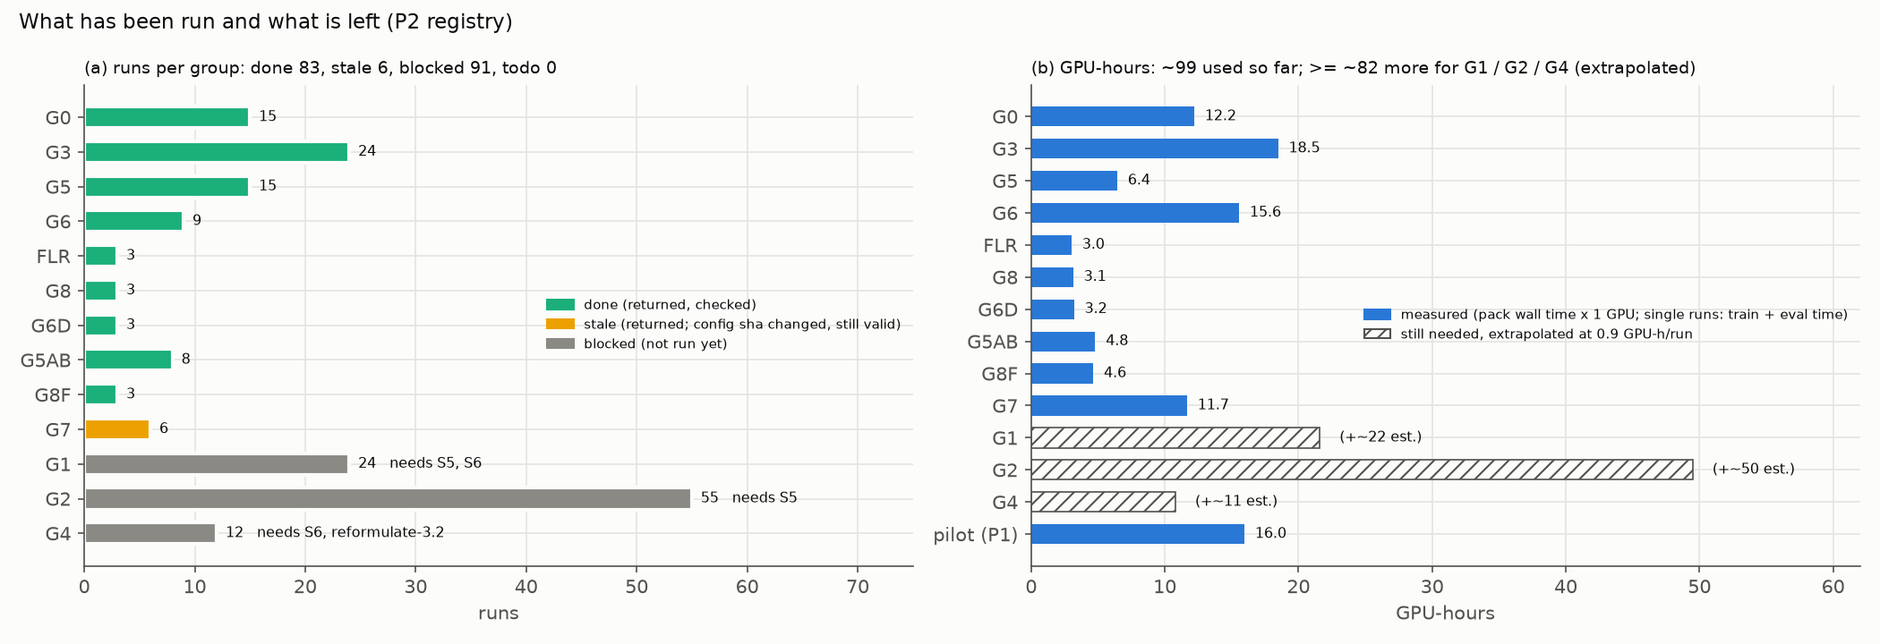
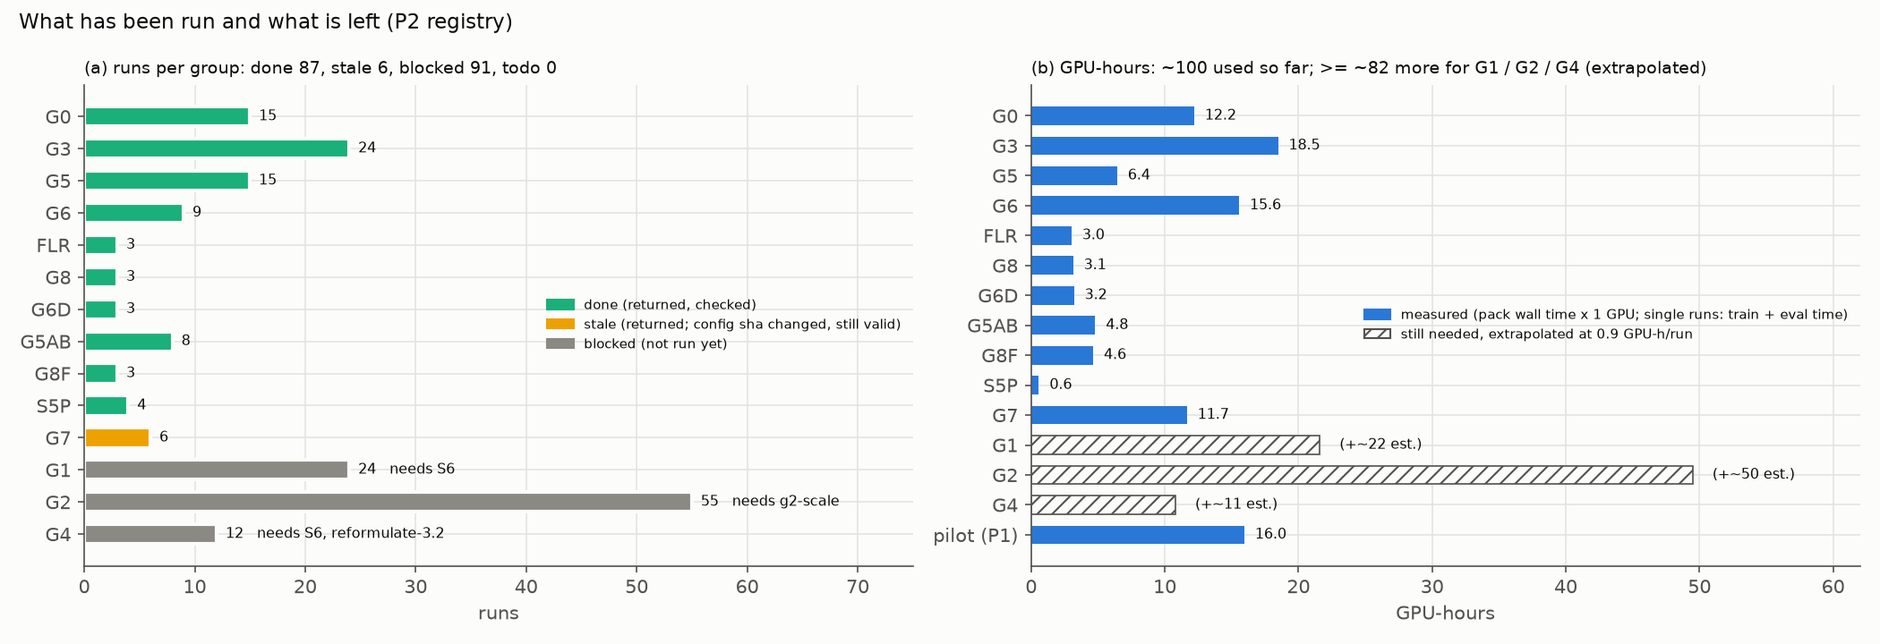
docs(exp3-v2/S5): S5P 回传核对 —— GPU 上开 / 关网格逐位相同（F-079）
- instrumentation_check --grid 两对都 ✅：R2 10 轮 checksum + 184 个已有字段、R20 2 轮 + 104 个字段
  逐位相同；4 个 run 有效（exit 0、client_failures 空、攻击者参与、同卡 K=2、16.2–16.5 GiB / run）。
- 单价：轻评估点 35.2 s（8 个测量），全量点约 78 s；相对 S5 之前的 G2 登记（外推，2 edge 单价）：
  R2 每 run 约 −2.3 h、R10 +0.29 h、R20 +0.44 h。R20 的 pm_acc 在云聚合后第一个点掉 0.03（只是观察）。
- REPORT §8 机时加 S5P（0.6，合计约 100）、§9；status_progress.png 重画（done 87）；
  D-084 / PLAN / CLAUDE.md / current-focus 的状态；test_report_figures 钉住 S5P 0.6。

Claude-Session: https://claude.ai/code/session_018aQGCmgjQ5LMDjpXaWtcjJ

diff --git a/tests/test_report_figures.py b/tests/test_report_figures.py
@@ -171,7 +171,7 @@ def test_status_figure_gpu_hours_match_the_report_budget_table():
     d = _real(R.data_status)
     got = {g: round(c["gpu_h_used"], 1) for g, c in d["groups"].items()}
     want = {"G0": 12.2, "G3": 18.5, "G5": 6.4, "G6": 15.6, "FLR": 3.0, "G8": 3.1, "G6D": 3.2,
-            "G5AB": 4.8, "G8F": 4.6, "G7": 11.7}
+            "G5AB": 4.8, "G8F": 4.6, "G7": 11.7, "S5P": 0.6}
     if any(d["groups"][g]["done"] + d["groups"][g]["stale"] == 0 for g in want):
         pytest.skip("结果不全")
     assert {g: got[g] for g in want} == want

diff --git a/experiments/attack/hfl-mechanism/DECISIONS.md b/experiments/attack/hfl-mechanism/DECISIONS.md
@@ -88,4 +88,4 @@
 | D-081 | 2026-09-29 | **G5（3.3）的判定口径写定**（G5 回传之前，`harness/g5_verdict.py`）：量沿用 D-078（峰值 excess = 窗口内 4 个评估点的最大值 − 同 4 轮 G0-random floor 的均值；稀释 excess = t0 + 65 / 70 / 75 三点均值 − 同轮 floor，**只报告**）；每个 seed 内对 5 个 t0 算 Spearman ρ(t0, 峰值 excess)（并列取平均秩），按 seed 用 `verdicts.bootstrap_mean_ci`（10000 次、固定种子）求均值 ρ 的 CI：下界 > 0 → `gated`、上界 < 0 → `anti_gated`（预注册只写了第一支，这一支单独报）、其余 `not_gated`；3 seed 时 CI 下界 = 最小的 seed ρ，即「gated ⇔ 三个 seed 的 ρ 都 > 0」。有效性闸：D-044 的 `invalid_reasons` + run 块起止轮与 `generator_schedule == window` 与登记一致 + 跑满 n_rounds + G0-random 是 ρ=0 且 ≥ 51 轮；缺格 → `insufficient`。附带（只报告）：G5 的 t20 / t140 × s42 / s43 与 G5AB-A 逐轮 checksum 比对 | 用户要求「写 G5 的判定代码」并批准本会话计划；规则主干是 PLAN §3 的 3.3 行与 D-078（用户逐项确认）。稀释不进判定：F-072 显示稀释点已贴 floor。守卫 `tests/test_g5_verdict.py`（21 条，含与 registry.yaml 的交叉核对与真实 G5AB-A 的接线检查） | 生效 |
 | D-082 | 2026-10-01 | **3.3 收尾，结论记 `not_gated`**（F-076）。适用范围：G0-random 配置（4 edge、攻击者 [10,0,0,0]、R5、ρ=0.2、equal_random、生成器语义 A）、20 有效轮投毒窗口、主列 = 良性端池化 fresh-PM ASR 的窗口峰值减同轮 floor；t0 覆盖窗口起点 pm_acc 0.55 → 0.84。读法：攻击者所在 edge 的良性端在每个 t0 都一开窗就饱和（峰值 excess ≥ 0.6），池化值 = 1/6 × 同 edge + 5/6 × 受害 edge，所以结论主要说的是「窗口内跨 edge 传染的峰值不随训练阶段变」；攻击者所在 edge 那一侧因天花板判不出门控。**3.3 不再追加实验**；探索中看到的 margin 迹象（E0 margin 峰值 2 / 3 个 seed 随 t0 上升，但与 logit 尺度随收敛变大混在一起）不追 —— 要追须另写预注册、用与尺度无关的量 | 用户（2026-10-01）：「3.3 收尾，记 not_gated」。数据：`analysis/g5_verdict.json`（`68393ae`，用户在集群上生成）、REPORT §5.10 的图 | 生效 |
 | D-083 | 2026-10-01 | **下一会话 = S5**（逐 edge 轮评估 / 统一评估网格），**按 D-055 预案实现**（三项用户已选定：`evaluation.eval_grid: 5`；轻评估点喂停止判据、斜率横轴改网格序号；开网格后 GM / EM 只在网格点上算）。解除 D-056 中「S5 暂缓」的部分；**G2 的规模仍未定**（D-056 的那一半照旧）。S5 不依赖 G2 规模，但 S5 完成后登记表 `available` 加 S5 时 G2 的 55 个 run 会从 blocked 变 todo、可被 `submit.sh` 交出 → 建议 S5 会话给 G2 的 `requires` 加一个 `g2-scale` 记号，由用户定规模后再放行（S5 会话开场问用户） | 用户（2026-10-01）：「下一个对话做 S5」。S5 是 G1（另需 S6）与 G2 的前提（registry `requires`）；F-052（停止判据横轴随 R 变）与 F-046（T50 网格分辨率）是它要修的两处 | 生效（S5 已实现，D-084；G2 挂 `g2-scale`） |
-| D-084 | 2026-10-01 | **S5 的实现取舍**（D-055 预案的落地；方案经用户批准）：① G2 的 `requires` 加 **`g2-scale`**（用户选；规模定了再加进 `available`），G2 的 set 写 `evaluation.eval_grid: 5`、R2 三格的两个 eval_interval 改 5；② **G1 的网格推迟到 S6**（用户选；`set:` 不动，代码支持任意 G ≥ 1）；③ 停止判据横轴 = 网格序号 eff / G，轻评估点只 `observe` 不判，**停止决定只在全量点**（云轮末、网格上）做；④ GM 只在全量点算；**EM 在全部网格点上算**（轻评估点每个 edge 多一次前向；这是 Claude 对 D-055「GM / EM 只在网格点上算」的读法，随方案批准）；⑤ 网格**收窄到 P2 的代码路径**，`config_validate` 拒绝：顺序调度（R > 1）、陈旧 PM、legacy 取数管线、非共享生成器、Bad-PFL 非固定攻击者、后处理防御；⑥ 轻评估用专用草稿槽 `light_victim` / `light_attacker` + 独立 RNG 键 `[seed, 0x11E7, eff, 列]`，整个包在 `random.getstate()/setstate()` 里；⑦ **照旧随 R 变、不在 S5 里修的**：global ASR 只有全量点（去抖跨 2·lcm 有效轮）、停轮粒度 = lcm(G,R)、陈旧列 / logits / 快照只按全量点计数（`config_validate` 警告）；⑧ 登记 **S5P**（GPU 探路：G2 的 e2-R2 / e2-R20 截短 × 开 / 关网格，4 run，约 1 GPU-h，没有实测），回来用 `instrumentation_check --grid` 比，并实测轻评估点单价供 G2 规模决策；⑨ series.csv 不加 `kind` 列（方案写了，实现时没加）：轻评估点在 metrics.json 里单独成表（`light_rounds[]`），series.csv 按有效轮合并，指标名与全量点相同 | F-046 / F-052；复核（server 侧对抗式复核）指出 Python random 是最可能被扰动的通道，S5 会话实测确认（F-078）。用户：「Add g2-scale gate」「Defer to S6」，批准方案 | 生效（S5 已实现；S5P 待交） |
+| D-084 | 2026-10-01 | **S5 的实现取舍**（D-055 预案的落地；方案经用户批准）：① G2 的 `requires` 加 **`g2-scale`**（用户选；规模定了再加进 `available`），G2 的 set 写 `evaluation.eval_grid: 5`、R2 三格的两个 eval_interval 改 5；② **G1 的网格推迟到 S6**（用户选；`set:` 不动，代码支持任意 G ≥ 1）；③ 停止判据横轴 = 网格序号 eff / G，轻评估点只 `observe` 不判，**停止决定只在全量点**（云轮末、网格上）做；④ GM 只在全量点算；**EM 在全部网格点上算**（轻评估点每个 edge 多一次前向；这是 Claude 对 D-055「GM / EM 只在网格点上算」的读法，随方案批准）；⑤ 网格**收窄到 P2 的代码路径**，`config_validate` 拒绝：顺序调度（R > 1）、陈旧 PM、legacy 取数管线、非共享生成器、Bad-PFL 非固定攻击者、后处理防御；⑥ 轻评估用专用草稿槽 `light_victim` / `light_attacker` + 独立 RNG 键 `[seed, 0x11E7, eff, 列]`，整个包在 `random.getstate()/setstate()` 里；⑦ **照旧随 R 变、不在 S5 里修的**：global ASR 只有全量点（去抖跨 2·lcm 有效轮）、停轮粒度 = lcm(G,R)、陈旧列 / logits / 快照只按全量点计数（`config_validate` 警告）；⑧ 登记 **S5P**（GPU 探路：G2 的 e2-R2 / e2-R20 截短 × 开 / 关网格，4 run，约 1 GPU-h，没有实测），回来用 `instrumentation_check --grid` 比，并实测轻评估点单价供 G2 规模决策；⑨ series.csv 不加 `kind` 列（方案写了，实现时没加）：轻评估点在 metrics.json 里单独成表（`light_rounds[]`），series.csv 按有效轮合并，指标名与全量点相同 | F-046 / F-052；复核（server 侧对抗式复核）指出 Python random 是最可能被扰动的通道，S5 会话实测确认（F-078）。用户：「Add g2-scale gate」「Defer to S6」，批准方案 | 生效（S5 已实现；S5P 已回传，GPU 上开 / 关网格逐位相同，F-079） |

diff --git a/experiments/attack/hfl-mechanism/REPORT.md b/experiments/attack/hfl-mechanism/REPORT.md
@@ -694,7 +694,8 @@ python3 harness/g3_did.py --json experiments/attack/hfl-mechanism/analysis/g3_di
 | G5AB | 4 × K=2 | 4.8 | 约 5 |
 | G8F | 1 × K=3 | 4.6 | 3.5（flat 的 350 个云轮比外推贵） |
 | G5 | 5 × K=3 | 6.4 | 约 7 |
-| **合计** | | **约 99** | |
+| S5P（S5 的 GPU 探路） | 2 × K=2 | 0.6 | 约 1 |
+| **合计** | | **约 100** | |
 
 - 单跑的 GPU-h 取 `timing_summary` 的训练 + 评估墙钟（不含启动）；包取 `*.gpu.json` 的墙钟。pilot 第一轮（6 个 run 全崩，F-043）没有计入。
 - 上限约 100 GPU-h / 周（D-047）。挡住的 91 个 run 按 PLAN §4 的每 run 约 0.9 GPU-h（K=3）外推 ≥ 80 GPU-h；10edge / R20 格没有实测，会更贵（G2P 的 10edge 单跑 3.3 h）。
@@ -711,7 +712,7 @@ EOF
 
 ## 9. 下一步与待决事项
 
-**集群上**：已登记的可交格子全部回传（G5 是最后一批，2026-09-30），没有在跑的作业。
+**集群上**：已登记的可交格子全部回传（S5P 是最后一批，2026-10-02），没有在跑的作业。
 
 ### 9.1 还没做的实验（2026-09-30，`python3 harness/status.py …/registry.yaml`）
 
@@ -726,7 +727,7 @@ EOF
 | 组 | 回答什么 | 设计 | run | 挡在哪 | 外推机时 | 谁定 |
 |---|---|---|---|---|---|---|
 | **G1** | 3-C 锯齿（一个云周期内干净 edge 能否自清洁；按 D-076 主量用 margin、另报尾部）+ 3-D（edge 视角能否更好地检测恶意更新）+ 3-A 的一部分 | 4 edge；划分 {random, C1} × 布点 {集中, 分散} × R_edge {10, 20} × 3 seed | 24 | ~~S5~~ ✅（2026-10-01，D-084；G1 的网格留给 S6 定）+ **S6**（更新日志 / 几何分数 / 周期转储 / 离线 c_k） | ≥ 22 GPU-h | S6 的范围可以开始定 |
-| **G2** | 3-A：HFL 是否结构性地延迟植入（T50 比值，5 seed） | flat + {2, 4, 10} edge × R_edge {2, 5, 10, 20}，去掉 G1 已覆盖的格 × 5 seed | 55 | ~~S5~~ ✅（网格已写进 set）+ **`g2-scale`**（D-084） | ≥ 50 GPU-h（轻评估点单价等 S5P 实测） | **规模仍未定**（D-056）；G2P 单 seed 已 `consistent`；定了就把 `g2-scale` 加进 `available` |
+| **G2** | 3-A：HFL 是否结构性地延迟植入（T50 比值，5 seed） | flat + {2, 4, 10} edge × R_edge {2, 5, 10, 20}，去掉 G1 已覆盖的格 × 5 seed | 55 | ~~S5~~ ✅（网格已写进 set）+ **`g2-scale`**（D-084） | ≥ 50 GPU-h；S5 的网格相对旧登记约省 6–9 GPU-h（外推，F-079） | **规模仍未定**（D-056）；G2P 单 seed 已 `consistent`；定了就把 `g2-scale` 加进 `available` |
 | **G4** | 3.2：私有 head 能否吸收后门 | ρ {0.25, 1.0} × {FedRep, FedAvg} × 3 seed | 12 | **S6** + 3.2 按 N-003 重新表述 | ≥ 11 GPU-h | **搁置**（D-047：FedAvg 臂会立刻被攻陷，给不出结论） |
 
 **不在登记表里、但已经提过的补充实验**（都要先写预注册规则再交）：
@@ -752,7 +753,7 @@ EOF
 |---|---|---|---|
 | 1 | **3-B** | ① G3 带仪表重跑（约 4.3 GPU-h）/ ② 降投毒率（约 7–8 GPU-h）/ ③ 攻击停止版（约 5.5 GPU-h）/ 不做，3-B 记为「当前强度下不可判定」 | §6.7 |
 | 2 | **git 瘦身** | 不改历史（部分克隆）/ 改写历史（`.git` 289 → 9.3 MiB） | 附录 A |
-| 3 | G2 规模 | G2P 已 `consistent`（单 seed）；**S5 已完成**（D-084），G2 的网格已写进 set、挂着 `g2-scale`。先交 S5P（约 1 GPU-h）实测轻评估点单价；网格下 flat 的停止判据严 5 倍，可能跑到 cap 300（F-078） | D-047 / D-055 / D-056 / D-083 / D-084 |
+| 3 | G2 规模 | G2P 已 `consistent`（单 seed）；**S5 已完成**（D-084），G2 的网格已写进 set、挂着 `g2-scale`。S5P 已回传（F-079）：GPU 上开 / 关网格逐位相同；轻评估点约 35 s。相对旧登记，R2 格每 run 约 −2.3 h、R10 +0.29 h、R20 +0.44 h（外推，只有 2 edge 的单价）；网格下 flat 的停止判据严 5 倍，可能跑到 cap 300（F-078） | D-047 / D-055 / D-056 / D-083 / D-084 |
 | 4 | G1 的重新规划 | 按 D-076：保留 3-C、主量 margin；需要 S5 + S6 | D-074 / D-076 |
 | 5 | ~~3-E 的判定代码（S7）~~ | ✅ 已写（2026-09-30）：两臂都 `blocks`；注意陈旧列的精度代价（c 臂 0.027–0.029）超过 0.02 | §5.4 / F-077 |
 | 6 | G8 存盘删除时机 | 已定「分析做完后删」；消费它的离线分析（margin / 逐客户端的离线复算）还没开始 | D-073 |

diff --git a/experiments/attack/hfl-mechanism/FINDINGS.md b/experiments/attack/hfl-mechanism/FINDINGS.md
@@ -1160,7 +1160,7 @@ G5AB 2.9k / 3.0k / 5.2k / 6.2k s、**G8F 16.7k s（4.6 GPU-h，估计是 3.5）*
 
 ## 2026-10-01 / 02（S5 统一评估网格，D-084）
 
-### F-078 `confirmed`（CPU：TF 2.15.1 单测 + 替身）/ 无证据（GPU，待 S5P）—— 统一评估网格不改变训练；Python random 是真实的扰动通道；统一横轴后 flat 不再先判平
+### F-078 `confirmed`（CPU：TF 2.15.1 单测 + 替身；**GPU 已证 → F-079**）—— 统一评估网格不改变训练；Python random 是真实的扰动通道；统一横轴后 flat 不再先判平
 
 **① `clone_model` 会消耗 Python `random`，取决于播种方式**（TF 2.15.1 / Keras 2.15 CPU，实测）：
 
@@ -1206,3 +1206,50 @@ G5AB 2.9k / 3.0k / 5.2k / 6.2k s、**G8F 16.7k s（4.6 GPU-h，估计是 3.5）*
 - GPU 上开 / 关网格是否同样逐位相同 —— 交 S5P（4 run），`instrumentation_check --grid` 比；
 - 轻评估点的 GPU 单价；
 - 云周期内的锯齿（轻评估点在 er < R，全量点在 er = R）会不会干扰停止判据的斜率与去抖（D-084 ⑦，复核 M3）。
+
+## 2026-10-02（S5P 回传，`b6deb19`）
+
+### F-079 `confirmed`（GPU）—— 统一评估网格在 GPU 上也不改变训练；轻评估点约 35 s，约为全量点的 45%
+
+**判定**：`instrumentation_check --grid` 两对都 ✅。
+
+- 4 个 run：exit 0，代码 `6352cf0`，P2 模板，`errors` / `client_failures` 都为空。
+- 攻击者都参与了：R2 每一轮，R20 第 1 / 2 轮。
+- 两个 K=2 合包，开 / 关两格同卡跑，显存峰值每 run 16.2–16.5 GiB，没有 OOM。
+
+| 比较 | checksum | 已有数值字段 | GM / EM 网格下不评 | 轻评估点 |
+|---|---|---|---|---|
+| R2（10 云轮）开 vs 关 | 10 轮逐位相同 | 184 个逐位相同 | 32 个 | 2 个（有效轮 5 / 15） |
+| R20（2 云轮）开 vs 关 | 2 轮逐位相同 | 104 个逐位相同 | 0 个（R20 每个云轮都是全量点） | 6 个（5 / 10 / 15 / 25 / 30 / 35） |
+
+**单价**（2 edge、100 端，整卡显存 97 871 MiB（型号没记录）、K=2 并发；`timing_summary`）：
+
+| 项 | 每点耗时 |
+|---|---|
+| 轻评估点（8 个测量） | 33.5–36.8 s，均值 **35.2 s** |
+| 全量点 | 约 **78 s**：后门评估约 47 s（主列 ASR 38–40 s + 隔点的陈旧 ASR），GM + EM 约 16 s，PM 约 10.5 s，隔点的陈旧 PM 约 4 s |
+| 训练（每有效轮） | R2 约 25 s，R20 约 19 s |
+
+**G2 的评估开销变化**（**外推**：只按 2 edge 的单价，单个 run 的墙钟，按跑满 300 有效轮算；4 / 10 edge 的单价没有实测，edge 越多 edge 探针越多）：
+
+| 格 | S5 之前（G2 登记的旧网格） | 开网格 | 每 run 变化 |
+|---|---|---|---|
+| R2（3 格 × 5 seed） | 150 个全量点 ≈ 3.25 h | 30 全量 + 30 轻 ≈ 0.94 h | **约 −2.3 h** |
+| R10（2 格 × 5 seed） | 30 全量 | + 30 轻 | 约 +0.29 h |
+| R20（2 格 × 5 seed） | 15 全量 | + 45 轻 | 约 +0.44 h |
+| R5 / flat | 不变 | 不变 | 0（但 flat 的停止判据严 5 倍，可能多跑到 cap：每 run 至多约 +2 h，**没有证据**会这样） |
+
+- 合计单 run 墙钟约 −27 h（若 flat 全部跑到 cap，约 −17 h）。按 K=3 合包折算，约省 6–9 GPU-h。
+- 这是**相对 S5 之前的 G2 登记**的变化，不是 G2 的总价。
+
+**云周期内的锯齿**（复核 M3 / D-084 ⑦；**单 seed、只有 2 个云周期，只是观察**）：
+
+R20 开网格的 fresh pm_acc：
+
+| 有效轮 | 5 | 10 | 15 | **20**（全量） | 25 | 30 | 35 | **40**（全量） |
+|---|---|---|---|---|---|---|---|---|
+| fresh pm_acc | 0.476 | 0.576 | 0.625 | 0.630 | **0.600** | 0.627 | 0.680 | 0.687 |
+
+- 云聚合后的第一个点（25）比前一个全量点低 0.03。这是 3-C 的 Δ_jump 的样子：第 1 云轮末，全局模型的 GM 精度 0.496 < EM 0.625，edge 拿到全局模型后从更差的起点出发。
+- edge ASR 逐点很吵：0.056 / 0.179 / 0.123 / 0.320 | 0.415 / 0.286 / 0.782 / 0.962。
+- 对停止判据的含义：R20 的 10 点窗口跨 2.5 个云周期，斜率里混着锯齿。**幅度够不够影响判定，没有证据**；要等 G2 的 R10 / R20 格的完整轨迹。

diff --git a/experiments/attack/hfl-mechanism/current-focus.md b/experiments/attack/hfl-mechanism/current-focus.md
@@ -1,8 +1,9 @@
 # current-focus —— Experiment 3（改版）· 交接
 
-> 本文件是 `CLAUDE.md`「新会话开场第 3 步」要读的那一份。**写于 2026-10-01**（S5 会话结束时）。
+> 本文件是 `CLAUDE.md`「新会话开场第 3 步」要读的那一份。**写于 2026-10-01，10-02 更新**（S5P 回传核对之后）。
 >
-> **S5 已完成**（统一评估网格，D-084）。**下一会话的题目用户还没定** —— 候选见下面「下一步」。
+> **S5 已完成**（统一评估网格，D-084），**S5P 已回传：GPU 上开 / 关网格逐位相同**（F-079）。
+> **下一会话的题目用户还没定** —— 候选见下面「下一步」。
 >
 > **全局概况看 `REPORT.md`**：
 > - §0 结果图一览（14 张，附中文读法）；
@@ -10,8 +11,8 @@
 > - §9.2 待用户定的事。
 >
 > **现在在哪**（`python3 harness/status.py experiments/attack/hfl-mechanism/registry.yaml`，2026-10-01 实测）：
-> todo 4（= **S5P**，GPU 探路，待交）/ done 83 / stale 6（G7，D-053 默认不重交）/ blocked 91
-> （G1 24 缺 S6、G2 55 挂 `g2-scale`、G4 12 搁置）。集群上没有在跑的作业；已用约 99 GPU-h。
+> todo 0 / done 87（含 S5P 4）/ stale 6（G7，D-053 默认不重交）/ blocked 91
+> （G1 24 缺 S6、G2 55 挂 `g2-scale`、G4 12 搁置）。集群上没有在跑的作业；已用约 100 GPU-h（S5P 0.6）。
 >
 > **已判定**：
 > - 3.1 不成立（F-073）；
@@ -23,7 +24,7 @@
 > **待用户定**（REPORT §9.2）：
 > ① 3-B 的出路；
 > ② git 瘦身（**改写历史要用户单独明确同意**）；
-> ③ **G2 的规模**（S5 已完成，G2 挂着 `g2-scale`；先看 S5P 实测的轻评估点单价）；
+> ③ **G2 的规模**（S5 已完成，G2 挂着 `g2-scale`；S5P 实测轻评估点约 35 s，见 F-079 的开销外推）；
 > ④ S6 的范围（G1 的另一个前提；G1 的网格也在那时定）；
 > ⑤ G8 存盘的离线分析与删除时机。
 >
@@ -35,9 +36,17 @@
 >
 > 集群 GPU 节点 5 条红、没有 GPU 的 TF 节点 2 条红（F-067），多出来的才是回归。
 
-## 下一步（S5 之后）
+## 下一步（S5P 回传之后，2026-10-02）
 
-**① 用户（集群）：拉代码、跑 L1，然后交 S5P**（约 1 GPU-h，**没有实测**；在仓库根目录执行）。
+**S5P 的结果**（F-079）：`instrumentation_check --grid` 两对都 ✅ —— R2 10 轮 checksum + 184 个已有字段、R20 2 轮 + 104 个字段逐位相同；
+4 个 run 有效（exit 0、`client_failures` 空、攻击者参与、同卡 K=2、显存 16.2–16.5 GiB / run）。轻评估点 35.2 s（8 个测量），全量点约 78 s。
+相对 S5 之前的 G2 登记（外推，只有 2 edge 的单价）：R2 每 run 约 −2.3 h、R10 +0.29 h、R20 +0.44 h；flat 可能因判据变严多跑。
+R20 的 pm_acc 在云聚合后的第一个点掉 0.03（Δ_jump 的样子），对停止斜率的影响**没有证据**。
+
+**接下来只剩用户的决定**：③ G2 规模（定了就把 `g2-scale` 加进 `available` → materialize → 交）；④ S6 的范围（G1 的网格同时定）；
+以及 REPORT §9.2 的其余几件。
+
+**① ~~用户（集群）：拉代码、跑 L1，然后交 S5P~~** ✅ 已交（两个 K=2 合包）、已回传（`b6deb19`）。当时写的命令：
 
 推荐手工交两个 K=2 的合包：同一个 R 的开 / 关两格放在同一张卡上，开 / 关的比较就排除了跨节点的差别。tag 用合包格式（D-060），`_cell_k` 认得这份显存记录。
 
@@ -54,7 +63,7 @@ done
 
 也可以 `PACK=3 RUN_GROUPS="S5P" bash $M/submit.sh`：每格只有 1 个 seed、都没有显存记录 → 4 个 k=1 的探路包（`--dry-run` 已核对）。
 
-**② 回传后（Claude 或用户）**：
+**② ~~回传后（Claude 或用户）~~** ✅ 已做（2026-10-02，结果见上）：
 
 ```bash
 python3 harness/status.py experiments/attack/hfl-mechanism/registry.yaml        # 期望 S5P 4 格 done

diff --git a/experiments/attack/hfl-mechanism/PLAN.md b/experiments/attack/hfl-mechanism/PLAN.md
@@ -136,7 +136,7 @@ P1 的用途（FINDINGS F-002/F-008/F-009）：同 seed 噪声的实测、效应
 | **A4**（实现会话；≠ AUDIT 行 A04；2026-09-26 代码 + L1 完成，pilot 待集群） | 按拍板改代码 + L1 测试（D-039：每行一个开关、默认旧行为，对齐项收成一套模板 `fedavg/config/alignment_p2.yaml`）（A1–A3 的全部 `align` 行，含 A26 的顺序开关、A27 统计量私有、A28 fresh-PM、A29 `resnet10_torch`、D01 交错执行、D02 按有效轮轮转）；跑 D-029 可行性实验（D-038：A08 + A25 + A27 + A29 一起开，2edge 那格带上 D01 / D02），通过后 A08 → `deviate`；同批跑 A26 的 2 个 body_first run，按 D-031 的判据关 A26；登记 G7；`PROTOCOL_VERSION` 升 P2；2 个 smoke 复核标定 | AUDIT 全部关闭（A08 由 D-029、A26 由 pilot 关闭） |
 | **S3**（2026-09-28 ✅，D-062 … D-068） | 划分：C1–C4 **机构式**比例表（只改 y_t 列，D-062）、层级 Dirichlet（社区口径，D-063）、**等大小 random**（D-065）、H_inter/H_intra（打 `[Partition]` 行）、edge 干净集（500/edge，按 p_e，D-064）、划分 seed 分离。**硬要求：客户端等大小**（D-027，F-028）；无放回；n 默认 500（F-057）。实现：`fedavg/data/designed_partition.py`（不 import TF）、`[Partition]` / `[PartitionEdge]` → `run.data`（schema 6）、`harness/partition_preview.py`（F0 数据，F-058） | → G0 / G3 |
 | **S4**（2026-09-29 ✅，D-078 / D-079） | ρ=0 影子攻击者 L1（生成器确实在训、评估触发器用生成器）、`attack_start_round` + `generator_schedule`（`attack/attack_window.py`，不 import TF；`[设定7]`，schema 8）；~~ξ-only 下限~~ 不做（D-078；δ-only / ξ-only 逐点消融列也不做，D-051） | → G0 / G5AB（G5 等 G5AB） |
-| ~~S5~~ ✅（2026-10-01，D-084；预案 D-055） | 统一评估网格 `evaluation.eval_grid: G`（`fedavg/server/eval_grid.py`）：全量评估在网格上的云轮末（两个 eval_interval = lcm(G,R)/R），其余网格点在 edge 轮之间做**轻评估**（只算主列：fresh-PM 的 local / edge ASR + pm_acc + EM 精度）；停止判据横轴 = eff / G（R5 逐位不变）；GM 只在全量点。collect_metrics schema 9（`light_rounds[]` / `per_edge_light_rounds`）。G2 写好网格但挂 `g2-scale`；G1 的网格留给 S6；探路组 **S5P**（GPU 上开 / 关网格的 checksum，4 run）待交 | → G1 / G2 |
+| ~~S5~~ ✅（2026-10-01，D-084；预案 D-055） | 统一评估网格 `evaluation.eval_grid: G`（`fedavg/server/eval_grid.py`）：全量评估在网格上的云轮末（两个 eval_interval = lcm(G,R)/R），其余网格点在 edge 轮之间做**轻评估**（只算主列：fresh-PM 的 local / edge ASR + pm_acc + EM 精度）；停止判据横轴 = eff / G（R5 逐位不变）；GM 只在全量点。collect_metrics schema 9（`light_rounds[]` / `per_edge_light_rounds`）。G2 写好网格但挂 `g2-scale`；G1 的网格留给 S6；探路组 **S5P** 已回传：GPU 上开 / 关网格逐位相同、轻评估点约 35 s（F-079） | → G1 / G2 |
 | S6 | 更新日志、几何分数（body-only、滑窗）、周期转储、离线 c_k、恶意端干净精度 | → G1 / G4 |
 | S7（**部分完成**，2026-09-30） | 各子实验的判定代码补全 + 出图。✅ 3-E 判定 `harness/g6_verdict.py`（F-077，两臂 `blocks`）；✅ 已回传各组的结果图 `harness/report_figures.py`（REPORT §0）。剩下：等 G1 / G2 / G4 的数据（F2 / F3 锯齿 / F5 / F6） | — |
 | **S9**（2026-09-28 ✅，D-071 … D-075） | 评估仪表（常开：逐客户端、margin、y_t 偏置、按类 ASR、非目标翻转率；schema 7）+ 两个存盘开关（logits / 快照，默认关）+ `harness/decay_verdict.py` / `instrumentation_check.py`；登记 G8 / G6D | → G8 / G6D；G1 待 FLR + G8 重新规划（D-074） |
